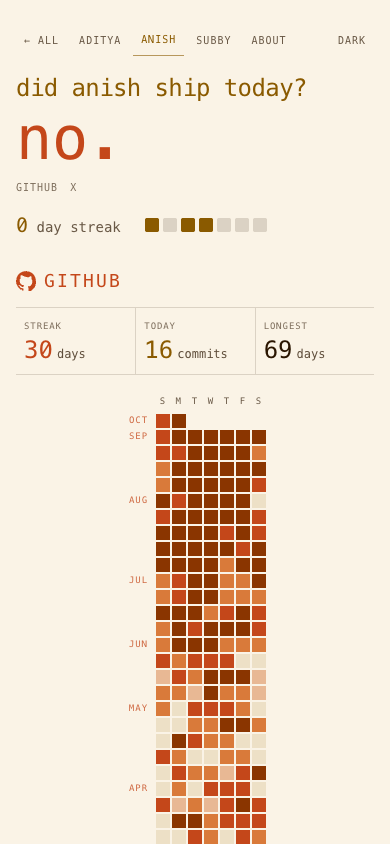
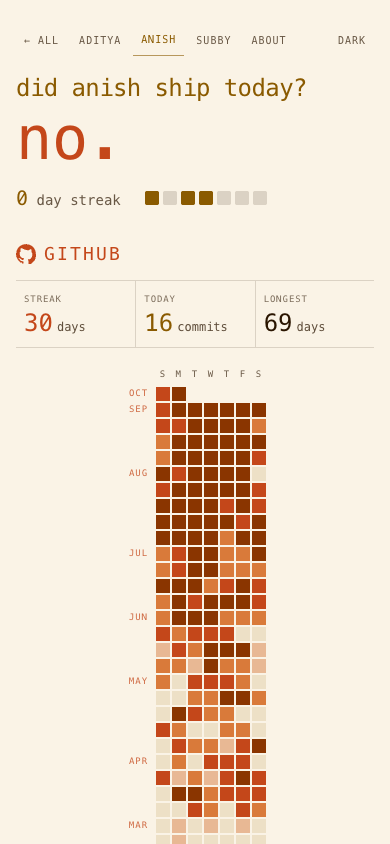
Link existing social panel headers

diff --git a/apps/web/src/lib/nerv/MagiPanel.tsx b/apps/web/src/lib/nerv/MagiPanel.tsx
@@ -11,10 +11,12 @@ export function MagiPanel({
   label,
   unit,
   data,
+  href,
 }: {
   label: string;
   unit: string;
   data: ChannelSnapshot;
+  href?: string;
 }) {
   const today = data.today_count;
   const live = today > 0;
@@ -31,15 +33,33 @@ export function MagiPanel({
 
   return (
     <section className="min-w-0 py-2 sm:py-3">
-      <div className="grid grid-cols-[auto_minmax(0,1fr)] items-center gap-x-3 sm:grid-cols-[auto_minmax(0,1fr)] sm:gap-x-4">
+      <div className="grid grid-cols-[auto_minmax(0,1fr)] items-center gap-x-3 sm:gap-x-4">
         <header className="flex items-center gap-2 text-nerv-orange">
-          {icon}
-          {label === "X" ? (
-            <span className="sr-only">X</span>
+          {href ? (
+            <a
+              href={href}
+              className="flex items-center gap-2 hover:text-nerv-amber focus:text-nerv-amber"
+            >
+              {icon}
+              {label === "X" ? (
+                <span className="sr-only">X</span>
+              ) : (
+                <span className="font-mono text-lg sm:text-xl uppercase tracking-[0.12em]">
+                  {label}
+                </span>
+              )}
+            </a>
           ) : (
-            <div className="font-mono text-lg sm:text-xl uppercase tracking-[0.12em]">
-              {label}
-            </div>
+            <>
+              {icon}
+              {label === "X" ? (
+                <span className="sr-only">X</span>
+              ) : (
+                <span className="font-mono text-lg sm:text-xl uppercase tracking-[0.12em]">
+                  {label}
+                </span>
+              )}
+            </>
           )}
         </header>
 

diff --git a/apps/web/src/app/[user]/page.tsx b/apps/web/src/app/[user]/page.tsx
@@ -129,21 +129,6 @@ export default async function UserPage({
                 {shipped ? "yes." : "no."}
               </h2>
 
-              <div className="mt-3 flex gap-3 text-[10px] uppercase tracking-widest text-nerv-text/60">
-                <a
-                  href={`https://github.com/${userCfg!.githubLogin}`}
-                  className="hover:text-nerv-amber focus:text-nerv-amber"
-                >
-                  github
-                </a>
-                <a
-                  href={`https://x.com/${userCfg!.xLogin}`}
-                  className="hover:text-nerv-amber focus:text-nerv-amber"
-                >
-                  x
-                </a>
-              </div>
-
               <div className="mt-4 flex flex-wrap items-center gap-x-6 gap-y-2 text-sm sm:text-base font-mono lowercase">
                 <span className="text-nerv-text/90">
                   <span className="text-nerv-amber text-xl sm:text-2xl tabular-nums">
@@ -160,12 +145,14 @@ export default async function UserPage({
                 label="GITHUB"
                 unit="commits"
                 data={snapshot.channels.github}
+                href={`https://github.com/${userCfg!.githubLogin}`}
               />
               {!xOffline && (
                 <MagiPanel
                   label="X"
                   unit="tweets"
                   data={snapshot.channels.twitter}
+                  href={`https://x.com/${userCfg!.xLogin}`}
                 />
               )}
             </div>
